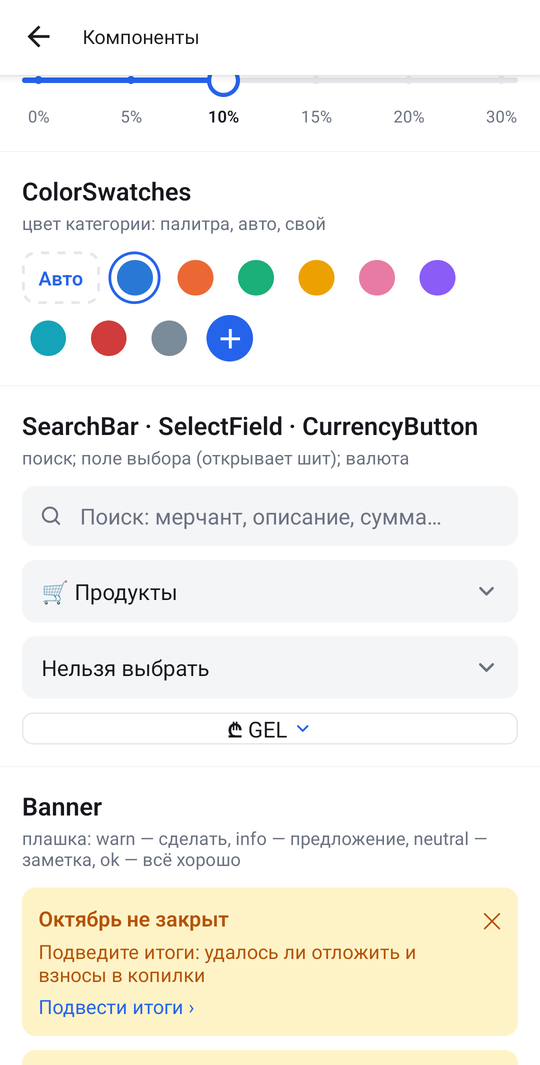
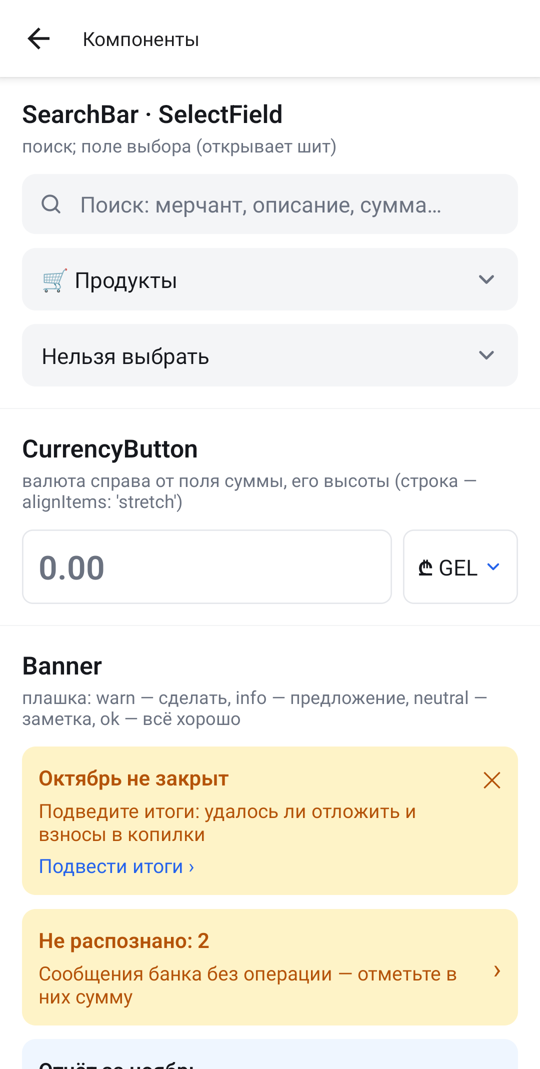
Catalog: CurrencyButton beside an amount field, as in the sheets
No behavior change (debug-only screen).

diff --git a/src/screens/catalog/parts/ChoiceDemo.tsx b/src/screens/catalog/parts/ChoiceDemo.tsx
@@ -1,5 +1,5 @@
 import React, { useState } from 'react';
-import { StyleSheet, View } from 'react-native';
+import { StyleSheet, TextInput, View } from 'react-native';
 import type { Currency } from '@/db/fx';
 import { UNTYPED_COLORS } from '@/domain/colors';
 import Checkbox from '@/shared/ui/Checkbox';
@@ -12,7 +12,9 @@ import SelectField from '@/shared/ui/SelectField';
 import StepSlider from '@/shared/ui/StepSlider';
 import SwitchRow from '@/shared/ui/SwitchRow';
 import Toggle from '@/shared/ui/Toggle';
-import { space } from '@/shared/theme/tokens';
+import { formStyles } from '@/shared/theme/formStyles';
+import { colors } from '@/shared/theme/theme';
+import { font, space, weight } from '@/shared/theme/tokens';
 import Frame from './Frame';
 
 const noop = () => {};
@@ -26,6 +28,7 @@ export default function ChoiceDemo() {
   const [color, setColor] = useState<string | null>(UNTYPED_COLORS[0] ?? null);
   const [query, setQuery] = useState('');
   const [currency, setCurrency] = useState<Currency>('GEL');
+  const [amount, setAmount] = useState('');
   return (
     <>
       <Frame name="RadioGroup" note="один из нескольких, с подсказкой под вариантом">
@@ -71,14 +74,31 @@ export default function ChoiceDemo() {
       <Frame name="ColorSwatches" note="цвет категории: палитра, авто, свой">
         <ColorSwatches options={UNTYPED_COLORS} value={color} onChange={setColor} onCustom={noop} />
       </Frame>
-      <Frame name="SearchBar · SelectField · CurrencyButton" note="поиск; поле выбора (открывает шит); валюта">
+      <Frame name="SearchBar · SelectField" note="поиск; поле выбора (открывает шит)">
         <SearchBar value={query} onChange={setQuery} placeholder="Поиск: мерчант, описание, сумма…" />
         <SelectField value="🛒 Продукты" onPress={noop} accessibilityLabel="Категория" />
         <SelectField value="Нельзя выбрать" onPress={noop} accessibilityLabel="Неактивно" disabled />
-        <CurrencyButton value={currency} onChange={setCurrency} />
+      </Frame>
+      <Frame name="CurrencyButton" note="валюта справа от поля суммы, его высоты (строка — alignItems: 'stretch')">
+        <View style={styles.amountRow}>
+          <TextInput
+            style={[formStyles.input, styles.amount]}
+            value={amount}
+            onChangeText={setAmount}
+            placeholder="0.00"
+            placeholderTextColor={colors.muted}
+            keyboardType="decimal-pad"
+          />
+          <CurrencyButton value={currency} onChange={setCurrency} />
+        </View>
       </Frame>
     </>
   );
 }
 
-const styles = StyleSheet.create({ row: { flexDirection: 'row', alignItems: 'center', gap: space[16] } });
+const styles = StyleSheet.create({
+  row: { flexDirection: 'row', alignItems: 'center', gap: space[16] },
+  // as in the amount sheets: the currency button as tall as the field
+  amountRow: { flexDirection: 'row', alignItems: 'stretch', gap: space[8] },
+  amount: { flex: 1, fontSize: font.headline, fontWeight: weight.semibold },
+});

diff --git a/tests/screens/components.test.tsx b/tests/screens/components.test.tsx
@@ -64,7 +64,18 @@ describe('«Компоненты» (debug build only)', () => {
   test('⋮ › Компоненты: every frame of the catalog is drawn', async () => {
     await openApp(base);
     await openMenu('Компоненты');
-    for (const name of ['Button', 'Chip', 'RadioGroup', 'SwitchRow', 'Banner', 'Empty', 'Loading', 'Meter', 'Donut'])
+    for (const name of [
+      'Button',
+      'Chip',
+      'RadioGroup',
+      'SwitchRow',
+      'CurrencyButton',
+      'Banner',
+      'Empty',
+      'Loading',
+      'Meter',
+      'Donut',
+    ])
       expect(screen.getByTestId(`catalog-${name}`)).toBeTruthy();
   });
 });
